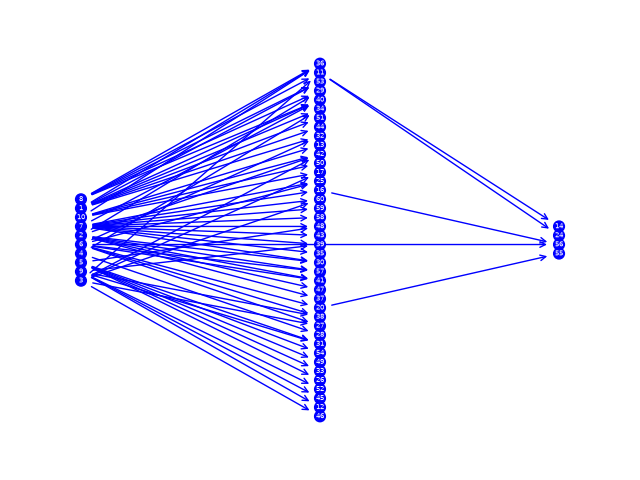
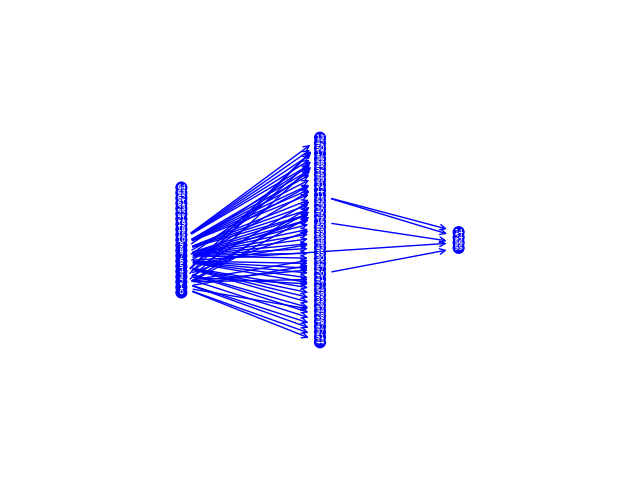
correçao de geracao de grafo

diff --git a/src/main.py b/src/main.py
@@ -39,26 +39,21 @@ def load_list_csv(file_path):
     return list(reader)
 
 
-file_path_especialistas = f'{csv_base_path}/especialistas.csv'
-especialistas = load_list_csv(file_path_especialistas)
-
-file_path_demandantes = f'{csv_base_path}/demandantes.csv'
-demandantes = load_list_csv(file_path_demandantes)
-
-file_path_funcionarios = f'{csv_base_path}/funcionarios.csv'
-funcionarios = load_list_csv(file_path_funcionarios)
+# file_path_especialistas = f'{csv_base_path}/especialistas.csv'
+# especialistas = load_list_csv(file_path_especialistas)
+# 
+# file_path_demandantes = f'{csv_base_path}/demandantes.csv'
+# demandantes = load_list_csv(file_path_demandantes)
+# 
+# file_path_funcionarios = f'{csv_base_path}/funcionarios.csv'
+# funcionarios = load_list_csv(file_path_funcionarios)
 
 
 start_total = time.process_time()
 print(f"\n--- INÍCIO ---")
 start = time.process_time()
 
-
-
-
-
-
-B = 500.0              # orçamento total de ativação (mesma unidade da coluna custo)
+B = 1000.0              # orçamento total de ativação (mesma unidade da coluna custo)
 TEMPO_S = 300          # limite de tempo do solver
 GAP = 1e-4
 K = {}                 # máx. de arestas novas saindo de um nó, ex.: {7: 1}; vazio = sem limite
@@ -66,61 +61,18 @@ PESO = 1.0             # criticidade de cada demanda (não há coluna de peso no
 
 dados = carregar_dados("1")
 nos, fonte, demandas, existentes, candidatas = dados
-gerar_grafo(candidatas.keys(), [], "1-rede")
+gerar_grafo(candidatas.keys(), nos, [], "1-rede")
 resultado = main(B, TEMPO_S, GAP, K, PESO, dados, options, "1")
-gerar_grafo(candidatas.keys(), resultado["escolhidas"], "1-resultado")
-
+gerar_grafo(candidatas.keys(), nos, resultado["escolhidas"], "1-resultado")
 
 dados = carregar_dados("2")
 pprint(dados)
 nos, fonte, demandas, existentes, candidatas = dados
-gerar_grafo(candidatas.keys(), [], "2-rede")
+gerar_grafo(candidatas.keys(),nos, [], "2-rede")
 resultado = main(B, TEMPO_S, GAP, K, PESO, dados, options, "2")
-gerar_grafo(candidatas.keys(), resultado["escolhidas"], "2-resultado")
+gerar_grafo(candidatas.keys(), nos, resultado["escolhidas"], "2-resultado")
 
 
-# arestas = gerar_arestas(funcionarios)
-# nos = [(u) for (u, v, d) in funcionarios] 
-# marcados = [1, 90, 10]
-# gerar_grafo(arestas, nos, marcados)
-# 
-# 
-# # Example inputs
-# weights = np.random.randint(low=1, high=10, size=(len(nos)))
-# pprint(weights)
-# subsets = {f'{i}': row[2] for i, row in enumerate(funcionarios)}
-# max_select = 30
-# 
-# # Map each element to the subsets that cover it
-# covering_subsets = {
-#     i: [j for j, elems in subsets.items() if i in elems] for i in nos
-# }
-# 
-# model = gp.Model("max_coverage")
-# 
-# x = model.addVars(subsets.keys(), vtype=GRB.BINARY, name="x")
-# y = model.addVars(nos, vtype=GRB.BINARY, name="y")
-# 
-# model.setObjective(
-#     gp.quicksum(weights[int(i)] * y[i] for i in nos), GRB.MAXIMIZE
-# )
-# 
-# model.addConstrs(
-#     (y[i] <= gp.quicksum(x[j] for j in covering_subsets[i]) for i in nos),
-#     name="cover",
-# )
-# 
-# model.addConstr(gp.quicksum(x[j] for j in subsets) <= max_select, name="budget")
-# 
-# model.optimize()
-# 
-# if model.SolCount > 0:
-#   selected = [j for j in subsets if x[j].X > 0.5]
-#   covered = [i for i in nos if y[i].X > 0.5]
-#   print("Selected subsets:", selected)
-#   print("Covered nos:", covered)
-#   print("Total covered weight:", model.ObjVal)
-  
 
 end = time.process_time()
 print(f"\nTempo total: {end - start} segundos")

diff --git a/src/ref/grapho.py b/src/ref/grapho.py
@@ -122,25 +122,37 @@ def gerar_arestas(funcionarios):
                 edges.append((int(n[0]), int(d), 1))
     return edges
 
-def gerar_grafo(arestas, marcados, nome):
-    G = nx.DiGraph()
-    nos = extrair_nos(arestas)
+def gerar_grafo(arestas,nos, marcados, nome):
+    G = nx.MultiDiGraph()
+    # nos = extrair_nos(arestas)
     node_colors = ["blue"] * len(nos)
-    edge_colors = ["blue"] * len(arestas)
+    # edge_colors = arestas.copy() # {} #["blue"] * len(arestas)
     
     # pprint(arestas)
+    # pprint(nos)
+    # pprint(marcados)
     # pprint(len(edge_colors))
     # pprint(len(node_colors))
+    for u in nos:
+        G.add_node(u)
 
     for (u, v) in arestas:
-        G.add_edge(u, v)
-        # pprint((u,v))
         if (u, v) in marcados and 0 <= u < len(node_colors) and 0 <= v < len(node_colors):
-            node_colors[u-1] = 'red'
-            node_colors[v-1] = 'red'
-            edge_colors.append('red')
+            G.add_edge(u, v, color="red")
+            # pprint((u, v))
+            node_colors[nos[u]] = 'red'
+            node_colors[nos[v]] = 'red'
+        else: 
+            G.add_edge(u, v, color="blue")
+            # edge_colors[(u,v)] = 'red'
+            # edge_colors[(v,u)] = 'red'
 
-
+    edges = G.edges()
+    # edge_colors = [G[u][v]['color'] for u,v in edges]
+    edge_colors = ["blue"] * len(arestas)
+    
+    pprint(edge_colors)
+    
     # arestas = [(u, v, w) for (u, v, w) in G.edges(data=True)]
     layers = dict(enumerate(nx.topological_generations(G)))
     pos = nx.multipartite_layout(G, subset_key=layers)
@@ -158,7 +170,7 @@ def gerar_grafo(arestas, marcados, nome):
     ax = plt.gca()
     ax.width = 1600
     ax.height = 1200
-    ax.margins(0.08)
+    ax.margins(0.5)
     plt.axis("off")
     plt.tight_layout()
     plt.savefig(f"./img/network-func-{nome}.png")
